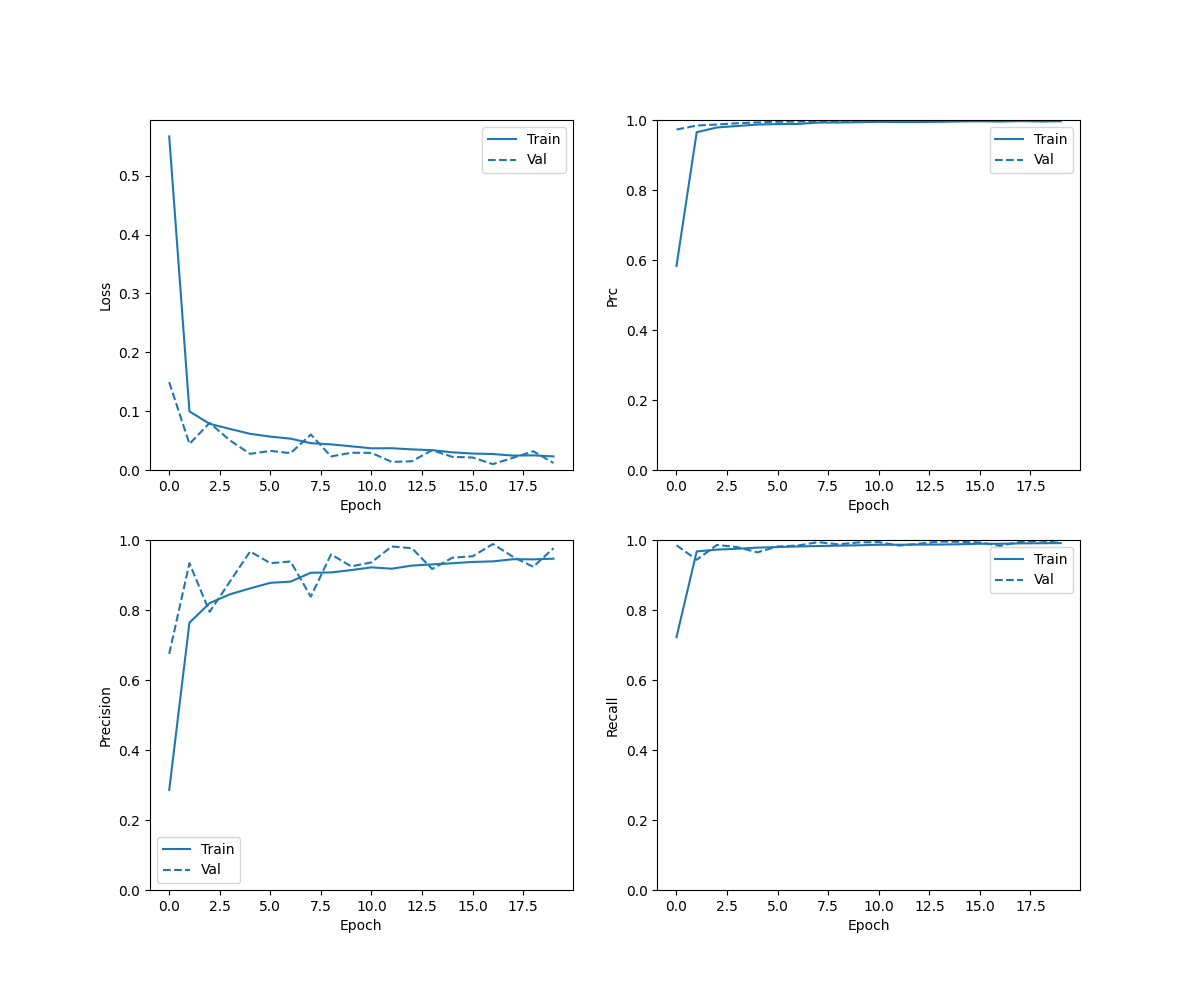
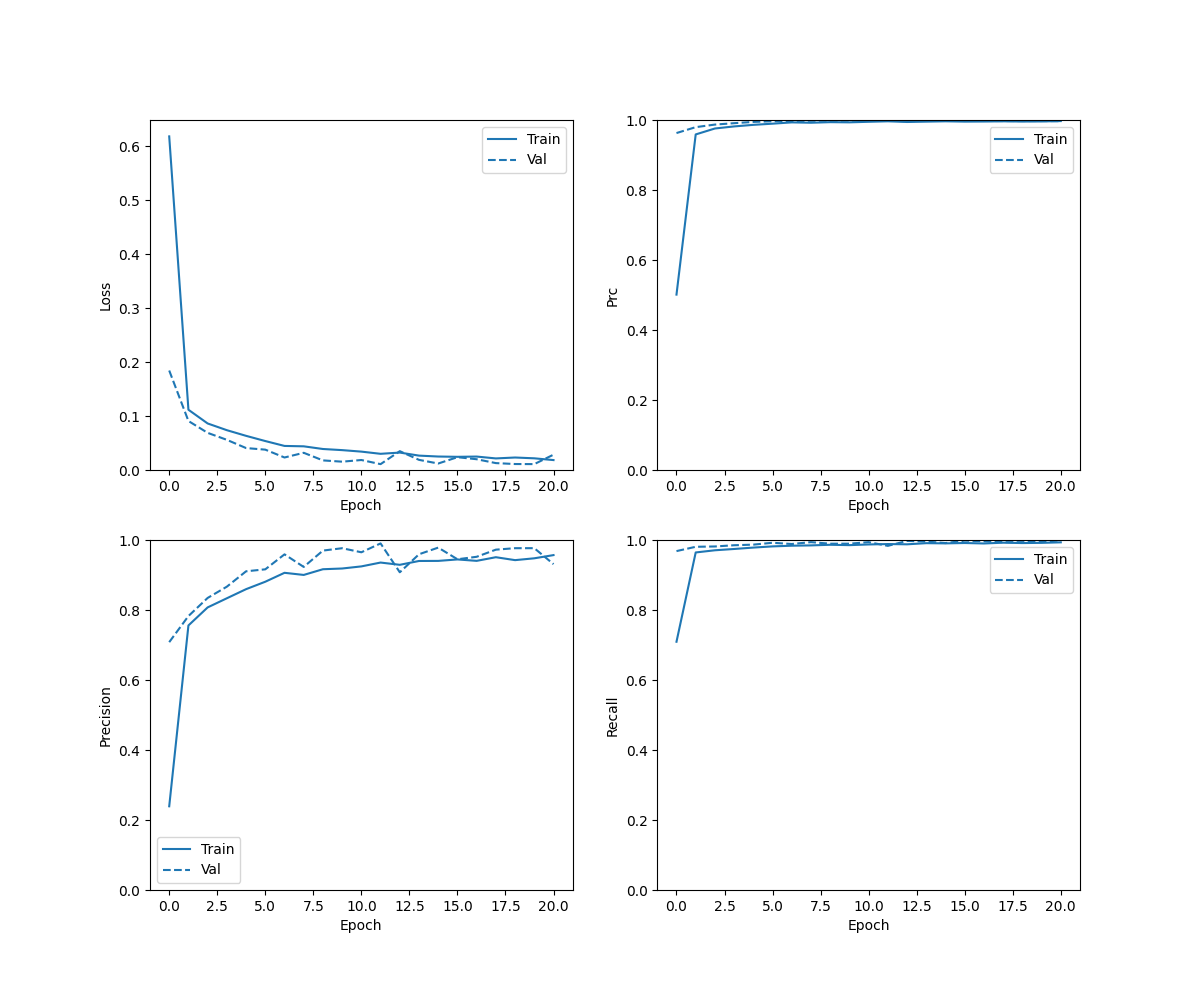
data augmentation added

diff --git a/method.py b/method.py
@@ -1,5 +1,6 @@
 import tensorflow as tf
 from tensorflow import keras
+from tensorflow.keras.preprocessing.image import ImageDataGenerator
 
 import os
 import tempfile
@@ -44,6 +45,75 @@ def oversample_data(x_train, y_train, bool_train_labels):
 
     resampled_features = np.concatenate([res_pos_features, neg_features], axis=0)
     resampled_labels = np.concatenate([res_pos_labels, neg_labels], axis=0)
+
+    order = np.arange(len(resampled_labels))
+    np.random.shuffle(order)
+
+    resampled_features = resampled_features[order]
+    resampled_labels = resampled_labels[order]
+    print("Resampled dataset shapes: {}, {}".format(resampled_features.shape, resampled_labels.shape))
+    return resampled_features, resampled_labels
+
+
+def oversample_data2(x_train, y_train, bool_train_labels):
+    # General image augmentation
+    datagen = ImageDataGenerator(
+        featurewise_center=False,  # 在数据集上将输入平均值设置为0
+        samplewise_center=False,  # 将每个样本的平均值设置为0
+        featurewise_std_normalization=False,  # 将输入除以数据集的std
+        samplewise_std_normalization=False,  # 将每个输入除以它的std
+        zca_whitening=False,  # 使用ZCA白化
+        rotation_range=10,  # 在范围内随机旋转图像（0到180度）
+        zoom_range=0.1,  # 随机缩放图像
+        width_shift_range=0.1,  # 水平随机移动图像（总宽度的一部分）
+        height_shift_range=0.1,  # 垂直随机移动图像（总高度的一部分）
+        horizontal_flip=False,  # 随机翻转图像
+        vertical_flip=False)  # 随机翻转图像
+
+    # Select anomalous values
+    ax_train = x_train[~bool_train_labels]
+    ay_train = y_train[~bool_train_labels]
+    # print(ax_train.shape, ay_train.shape)
+
+    iterator = datagen.flow(ax_train, ay_train, batch_size=32)
+
+    cnt = 0
+    res_ax_train = []
+    res_ay_train = []
+
+    while cnt * 32 <= len(ax_train):
+        batched_images = next(iterator)  # generate infinitively
+        # print(batched_images[0].shape, batched_images[1].shape)
+        for i in range(32):
+            try:
+                img = batched_images[0][i]
+                label = batched_images[1][i]
+                res_ax_train.append(img)
+                res_ay_train.append(label)
+            except:
+                pass
+
+        cnt += 1
+    # print(cnt * 32)
+
+    res_ax_train = np.array(res_ax_train, dtype=np.uint8)
+    res_ay_train = np.array(res_ay_train, dtype=np.uint8)
+
+    anomaly_features = np.concatenate([ax_train, res_ax_train], axis=0)  # add augmentation images
+    anomaly_labels = np.concatenate([ay_train, res_ay_train], axis=0)
+    # print(anomaly_features.shape, anomaly_labels.shape)
+
+    pos_features = x_train[bool_train_labels]  # non-anomalies
+    pos_labels = y_train[bool_train_labels]  # anomalies
+
+    ids = np.arange(len(pos_features))
+    choices = np.random.choice(ids, len(anomaly_features))
+
+    res_pos_features = pos_features[choices]
+    res_pos_labels = pos_labels[choices]
+
+    resampled_features = np.concatenate([res_pos_features, anomaly_features], axis=0)
+    resampled_labels = np.concatenate([res_pos_labels, anomaly_labels], axis=0)
 
     order = np.arange(len(resampled_labels))
     np.random.shuffle(order)

diff --git a/augmentation.py b/augmentation.py
@@ -1,0 +1,103 @@
+import cv2
+import numpy as np
+import random
+from pathlib import Path
+
+
+def rotate(img, angle):  # 对图片执行旋转操作
+    imgInfo = img.shape
+    height = imgInfo[0]
+    width = imgInfo[1]
+    matRotate = cv2.getRotationMatrix2D((width * 0.5, height * 0.5), angle, 1)
+    dst = cv2.warpAffine(img, matRotate, (width, height))
+    return dst
+
+
+def resize_pic(img, scale):  # 对图片执行resize操作
+    shape_img = img.shape
+    dstHeight = int(shape_img[0] * scale)
+    dstWeight = int(shape_img[1] * scale)
+
+    dst = cv2.resize(img, (dstWeight, dstHeight))
+    return dst
+
+
+def cut(img, val):  # 对图片执行剪切操作
+    shape_img = img.shape
+    dst = img[int(shape_img[0] * val):shape_img[0] - int(shape_img[0] * val),
+              int(shape_img[1] * val * 2):int(shape_img[1] - shape_img[1] * val * 2)]
+    return dst
+
+
+def shift(img, val):  # 对图片执行平移操作
+    imgInfo = img.shape
+    height = imgInfo[0]
+    width = imgInfo[1]
+    dst = np.zeros(imgInfo, np.uint8)
+    for i in range(height):
+        for j in range(width - val):
+            dst[i, j + val] = img[i, j]
+
+    return dst
+
+
+def gasuss_noise(image, mean=0, var=0.002):  # 对图片添加高斯噪声
+    '''
+        添加高斯噪声
+        mean : 均值
+        var : 方差
+    '''
+    # image = np.array(image / 255, dtype=float)
+    noise = np.random.normal(mean, var**0.5, image.shape)
+    out = image + noise
+    if out.min() < 0:
+        low_clip = -1.
+    else:
+        low_clip = 0.
+    out = np.clip(out, low_clip, 1.0)
+    out = np.uint8(out * 255)
+    return out
+
+
+def sp_noise(image, prob):  # 对图片添加椒盐噪声
+    '''
+    添加椒盐噪声
+    prob:噪声比例
+    '''
+    output = np.zeros(image.shape, np.uint8)
+    thres = 1 - prob
+    for i in range(image.shape[0]):
+        for j in range(image.shape[1]):
+            rdn = random.random()
+            if rdn < prob:
+                output[i][j] = 0
+            elif rdn > thres:
+                output[i][j] = 255
+            else:
+                output[i][j] = image[i][j]
+    return output
+
+
+def show_augmentation(demo_image):
+    # demo_image = x_train[0]
+    aug_dir = './augmentation'
+    Path(aug_dir).mkdir(parents=True, exist_ok=True)
+    cv2.imwrite(aug_dir + '/demo.png', demo_image)
+
+    rot = rotate(demo_image, 30)
+    cv2.imwrite(aug_dir + '/rotate.png', rot)
+
+    rsz = resize_pic(demo_image, 0.5)
+    cv2.imwrite(aug_dir + '/resize.png', rsz)
+
+    cutt = cut(demo_image, 0.1)
+    cv2.imwrite(aug_dir + '/cut.png', cutt)
+
+    shft = shift(demo_image, 10)
+    cv2.imwrite(aug_dir + '/shift.png', shft)
+
+    gauss = gasuss_noise(demo_image)
+    cv2.imwrite(aug_dir + '/gauss.png', gauss)
+
+    sp_noise_img = sp_noise(demo_image, 0.01)
+    cv2.imwrite(aug_dir + '/sp_noise.png', sp_noise_img)

diff --git a/train.py b/train.py
@@ -16,6 +16,7 @@ import sklearn
 from sklearn.metrics import confusion_matrix
 from sklearn.model_selection import train_test_split
 from sklearn.preprocessing import StandardScaler
+from tensorflow.python import training
 
 from method import *
 
@@ -34,8 +35,8 @@ y_train = np.array([0 if item != anomaly_num else 1 for item in y_train], dtype=
 y_test = np.array([0 if item != anomaly_num else 1 for item in y_test], dtype=np.uint8)
 
 # Resize numpy arrays to tensorflow Tensors
-train_images = tf.reshape(x_train, (x_train.shape[0], x_train.shape[1], x_train.shape[2], 1))
-test_images = tf.reshape(x_test, (x_test.shape[0], x_test.shape[1], x_test.shape[2], 1))
+train_images = x_train.reshape((x_train.shape[0], x_train.shape[1], x_train.shape[2], 1))
+test_images = x_test.reshape((x_test.shape[0], x_test.shape[1], x_test.shape[2], 1))
 
 # Tag bool labels
 bool_train_labels = y_train == 0
@@ -44,20 +45,19 @@ bool_train_labels = y_train == 0
 neg, pos = np.bincount(y_train)
 total = neg + pos
 
-
 if __name__ == '__main__':
     # Baseline
-    baseline(train_images, y_train, test_images, y_test, epochs=20)  # Train #1
+    baseline(train_images, y_train, test_images, y_test, epochs=30)  # Train #1
 
     # Oversampling Method
-    resampled_features, resampled_labels = oversample_data(x_train=x_train,
-                                                           y_train=y_train,
-                                                           bool_train_labels=bool_train_labels)  # oversampling
+    resampled_features, resampled_labels = oversample_data2(x_train=train_images,
+                                                            y_train=y_train,
+                                                            bool_train_labels=bool_train_labels)  # oversampling
     res_train_images = tf.reshape(
         resampled_features,
         (resampled_features.shape[0], resampled_features.shape[1], resampled_features.shape[2], 1))  # tensor reshaping
 
-    oversampling(res_train_images, resampled_labels, test_images, y_test, epochs=20)  # Train #2
+    oversampling(res_train_images, resampled_labels, test_images, y_test, epochs=30)  # Train #2
 
     # Weighted class Method
-    class_weights(pos, neg, total, train_images, y_train, test_images, y_test, epochs=20)  # Train #3
+    class_weights(pos, neg, total, train_images, y_train, test_images, y_test, epochs=30)  # Train #3
